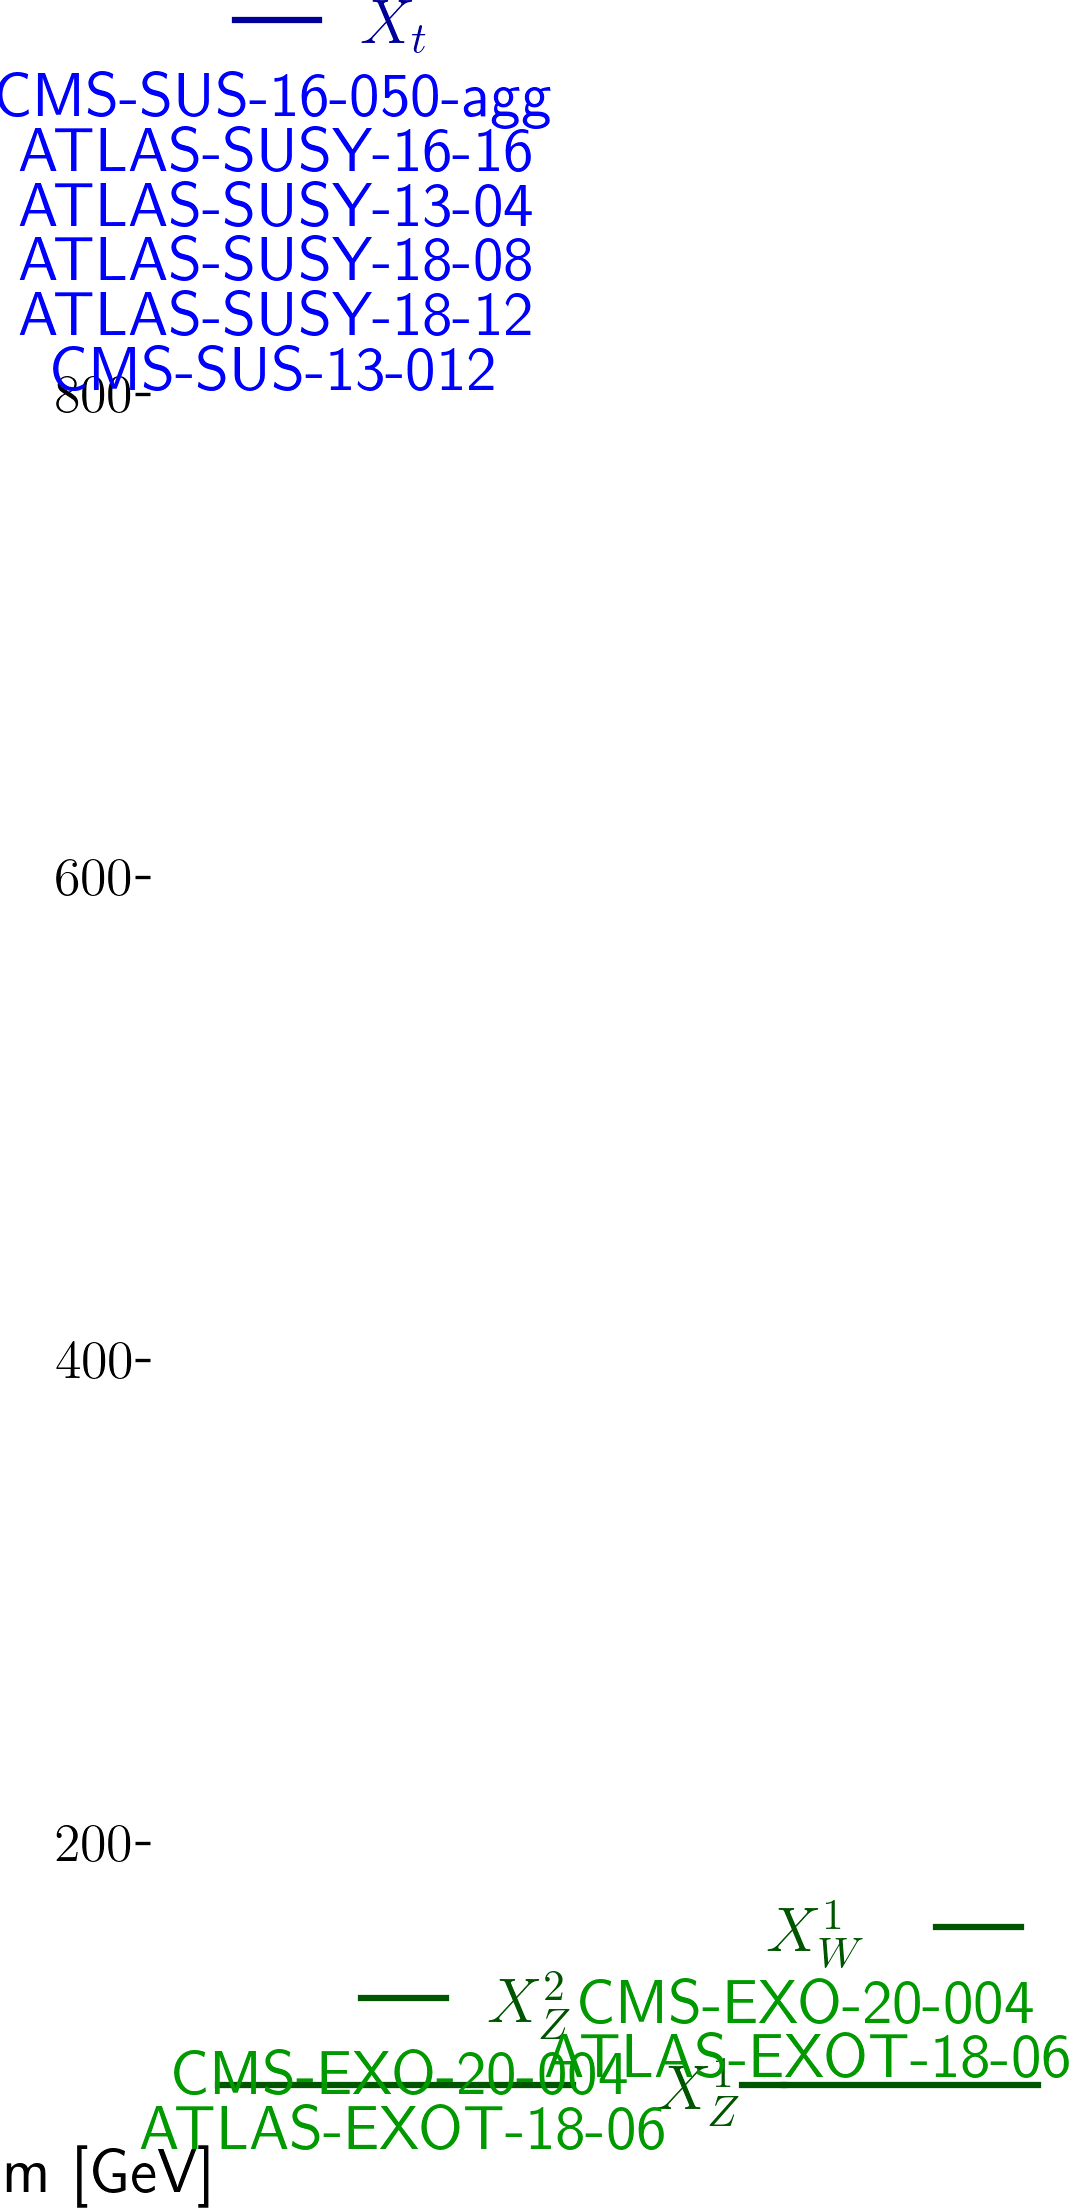
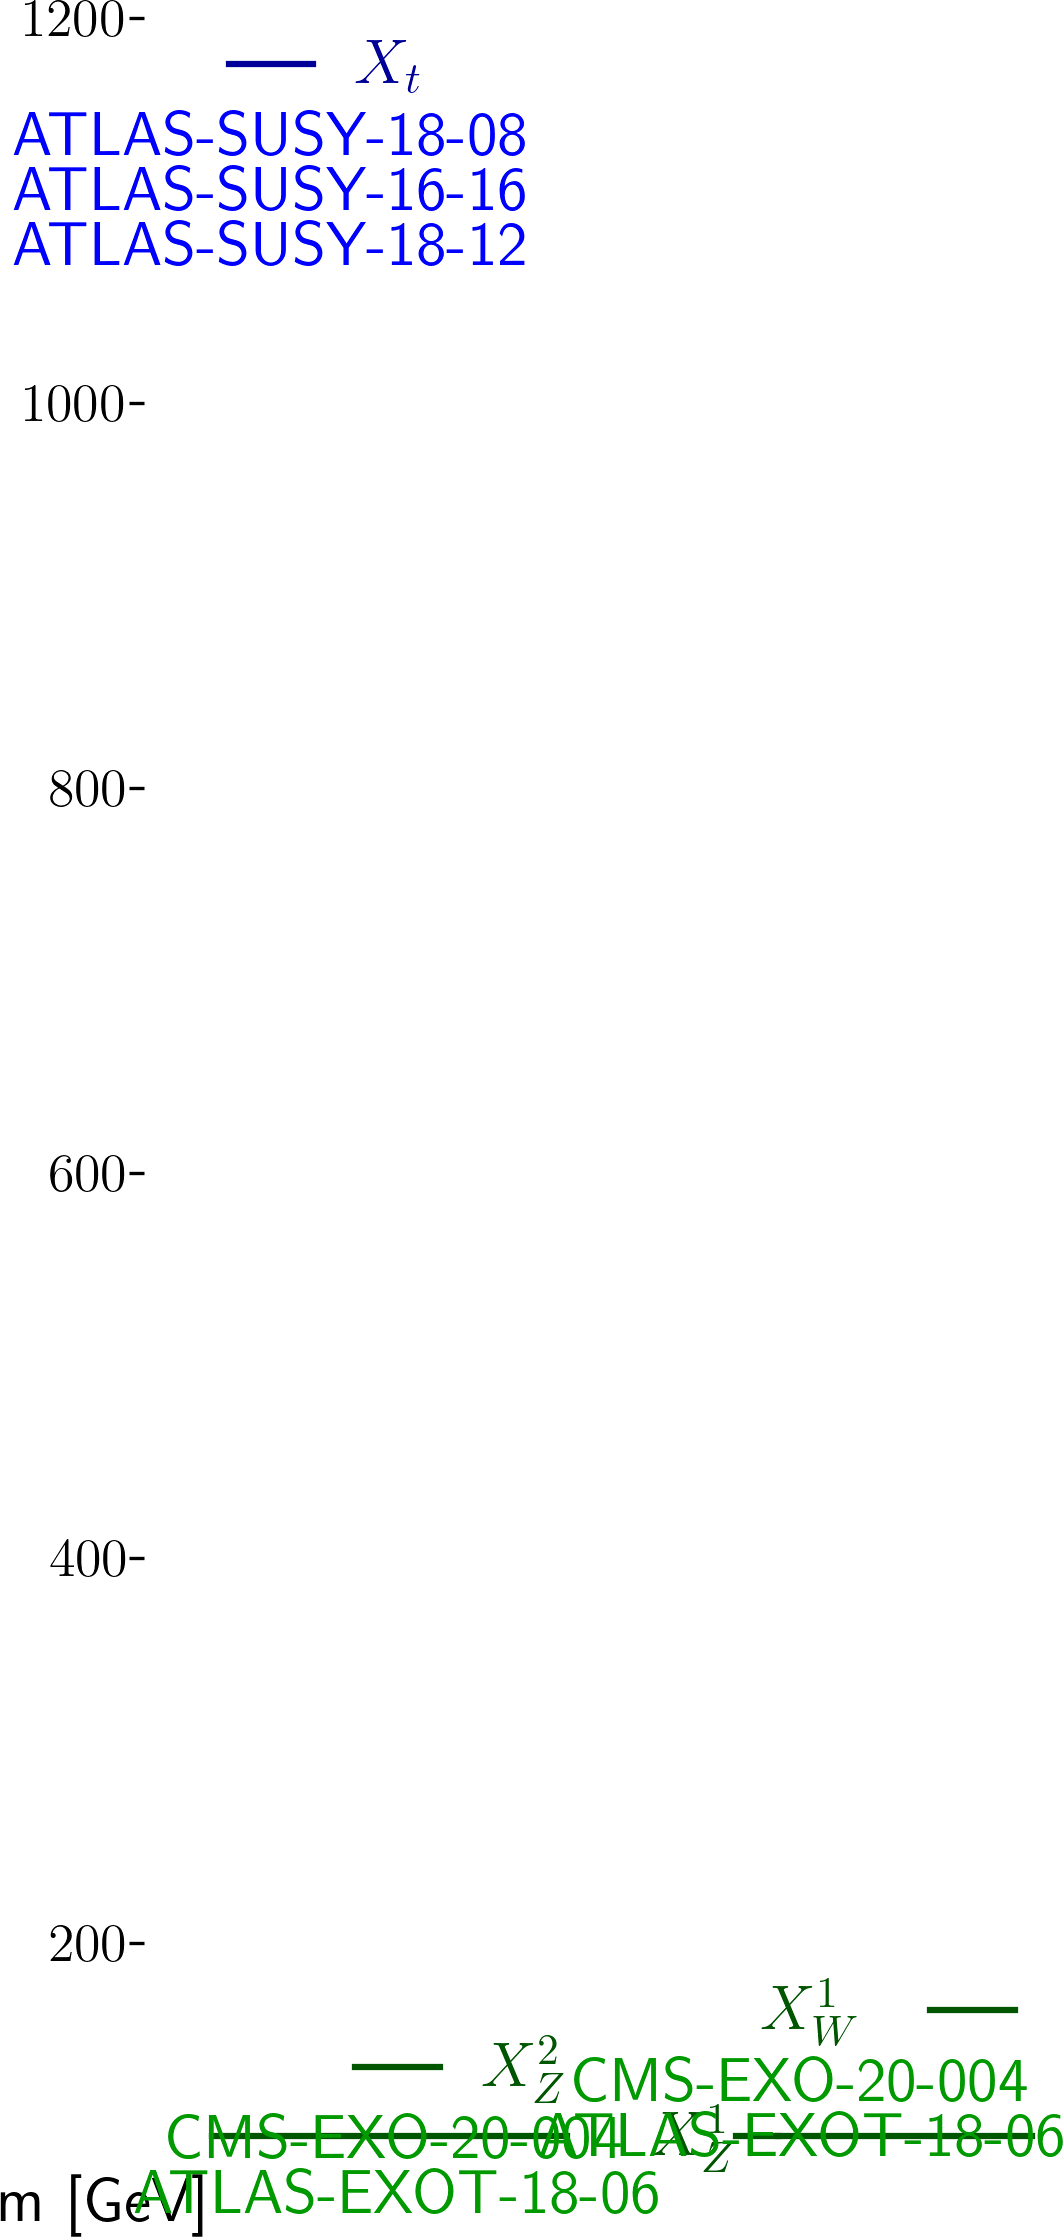
automated update by plotHiscore.py to mcmc3_310:     K=25.024 TL=30.30 walkerid=0

diff --git a/protomodels/mcmc3_310/rawnumbers.html b/protomodels/mcmc3_310/rawnumbers.html
@@ -3,12 +3,9 @@
 </tr>
 <tr><td><a href=http://cms-results.web.cern.ch/cms-results/public-results/publications/EXO-20-004/>CMS-EXO-20-004</a></td><td>comb</td> <td>-</td><td>TChiISR, TChiZISRqq</td><td> 2e+02 fb </td><td> 1e+02 fb</td><td style="text-align:right">4.5 &sigma;</td><td style="text-align:right">X<sup>1</sup><sub>W</sub>, X<sup>1</sup><sub>Z</sub>, X<sup>2</sup><sub>Z</sub></td></tr>
 <tr><td><a href=https://atlas.web.cern.ch/Atlas/GROUPS/PHYSICS/PAPERS/EXOT-2018-06/>ATLAS-EXOT-2018-06</a></td><td>em</td> <td>EM10</td><td>TChiISR, TChiZISRqq</td><td>413</td><td>359.00 +/- 10.00</td><td style="text-align:right">2.5 &sigma;</td><td style="text-align:right">X<sup>1</sup><sub>W</sub>, X<sup>1</sup><sub>Z</sub>, X<sup>2</sup><sub>Z</sub></td></tr>
-<tr><td><a href=https://atlas.web.cern.ch/Atlas/GROUPS/PHYSICS/PAPERS/SUSY-2018-12/>ATLAS-SUSY-2018-12</a></td><td>em</td> <td>SRBTT</td><td>T2tt</td><td>67</td><td>46.00 +/- 7.00</td><td style="text-align:right">2.1 &sigma;</td><td style="text-align:right">X<sup>1</sup><sub>Z</sub>, X<sub>t</sub></td></tr>
 <tr><td><a href=https://atlas.web.cern.ch/Atlas/GROUPS/PHYSICS/PAPERS/SUSY-2016-16/>ATLAS-SUSY-2016-16</a></td><td>em</td> <td>tN_high</td><td>T2tt</td><td>8</td><td>3.80 +/- 1.00</td><td style="text-align:right">1.7 &sigma;</td><td style="text-align:right">X<sup>1</sup><sub>Z</sub>, X<sub>t</sub></td></tr>
 <tr><td><a href=https://atlas.web.cern.ch/Atlas/GROUPS/PHYSICS/PAPERS/SUSY-2018-08/>ATLAS-SUSY-2018-08</a></td><td>em</td> <td>SRSF140</td><td>T2tt</td><td>9</td><td>5.10 +/- 0.90</td><td style="text-align:right">1.5 &sigma;</td><td style="text-align:right">X<sup>1</sup><sub>Z</sub>, X<sub>t</sub></td></tr>
-<tr><td><a href=https://twiki.cern.ch/twiki/bin/view/CMSPublic/PhysicsResultsSUS13012>CMS-SUS-13-012</a></td><td>em</td> <td>3NJet6_1000HT12 ...</td><td>T2tt</td><td>32</td><td>22.80 +/- 5.20</td><td style="text-align:right">1.3 &sigma;</td><td style="text-align:right">X<sup>1</sup><sub>Z</sub>, X<sub>t</sub></td></tr>
-<tr><td><a href=https://atlas.web.cern.ch/Atlas/GROUPS/PHYSICS/PAPERS/SUSY-2013-04/>ATLAS-SUSY-2013-04</a></td><td>em</td> <td>GtGrid_SR_10ij5 ...</td><td>T2tt</td><td>3</td><td>1.37 +/- 0.35</td><td style="text-align:right">1.2 &sigma;</td><td style="text-align:right">X<sup>1</sup><sub>Z</sub>, X<sub>t</sub></td></tr>
-<tr><td><a href=http://cms-results.web.cern.ch/cms-results/public-results/publications/SUS-16-050/index.html>CMS-SUS-16-050-agg</a></td><td>comb</td> <td>-</td><td>T2tt</td><td> 0.4 fb </td><td> 0.7 fb</td><td style="text-align:right">-0.3 &sigma;</td><td style="text-align:right">X<sup>1</sup><sub>Z</sub>, X<sub>t</sub></td></tr>
+<tr><td><a href=https://atlas.web.cern.ch/Atlas/GROUPS/PHYSICS/PAPERS/SUSY-2018-12/>ATLAS-SUSY-2018-12</a></td><td>em</td> <td>SRATW</td><td>T2tt</td><td>8</td><td>5.60 +/- 0.70</td><td style="text-align:right">1.0 &sigma;</td><td style="text-align:right">X<sup>1</sup><sub>Z</sub>, X<sub>t</sub></td></tr>
 </table>
 <table style='color:grey'>
 <tr><th>Not in Best Combo</th><th>Type</th><th>Dataset</th><th>Topos</th><th>Observed</th><th>Expected</th><th>Approx &sigma;</th><th>Particles</th><tr><td><a href=http://cms-results.web.cern.ch/cms-results/public-results/publications/SUS-16-033/index.html>CMS-SUS-16-033</a></td><td>em</td> <td>SR2_Njet3_Nb0_H ...</td><td>T2tt</td><td>71</td><td>55.20 +/- 11.50</td><td style="text-align:right">1.1 &sigma;</td><td style="text-align:right">X<sup>1</sup><sub>Z</sub>, X<sub>t</sub></td></tr>
@@ -19,9 +16,9 @@
 <tr><td><a href=http://cms-results.web.cern.ch/cms-results/public-results/publications/SUS-16-033/index.html>CMS-SUS-16-033</a></td><td>em</td> <td>SR9_NJet5_Nb2_H ...</td><td>T2tt</td><td>6</td><td>4.40 +/- 3.40</td><td style="text-align:right">0.4 &sigma;</td><td style="text-align:right">X<sup>1</sup><sub>Z</sub>, X<sub>t</sub></td></tr>
 <tr><td><a href=http://cms-results.web.cern.ch/cms-results/public-results/publications/SUS-16-033/index.html>CMS-SUS-16-033</a></td><td>em</td> <td>SR4_Njet5_Nb0_H ...</td><td>T2tt</td><td>25</td><td>23.00 +/- 6.50</td><td style="text-align:right">0.3 &sigma;</td><td style="text-align:right">X<sup>1</sup><sub>Z</sub>, X<sub>t</sub></td></tr>
 <tr><td><a href=http://cms-results.web.cern.ch/cms-results/public-results/publications/SUS-16-033/index.html>CMS-SUS-16-033</a></td><td>em</td> <td>SR3_Njet5_Nb0_H ...</td><td>T2tt</td><td>819</td><td>806.00 +/- 57.00</td><td style="text-align:right">0.2 &sigma;</td><td style="text-align:right">X<sup>1</sup><sub>Z</sub>, X<sub>t</sub></td></tr>
-<tr><td><a href=http://cms-results.web.cern.ch/cms-results/public-results/publications/SUS-16-033/index.html>CMS-SUS-16-033</a></td><td>em</td> <td>SR5_Njet9_Nb0_H ...</td><td>T2tt</td><td>1</td><td>0.60 +/- 1.30</td><td style="text-align:right">0.1 &sigma;</td><td style="text-align:right">X<sup>1</sup><sub>Z</sub>, X<sub>t</sub></td></tr>
+<tr><td><a href=http://cms-results.web.cern.ch/cms-results/public-results/publications/SUS-16-033/index.html>CMS-SUS-16-033</a></td><td>em</td> <td>SR5_Njet9_Nb0_H ...</td><td>T2tt</td><td>1</td><td>0.60 +/- 1.30</td><td style="text-align:right">0.0 &sigma;</td><td style="text-align:right">X<sup>1</sup><sub>Z</sub>, X<sub>t</sub></td></tr>
 <tr><td><a href=http://cms-results.web.cern.ch/cms-results/public-results/publications/SUS-16-033/index.html>CMS-SUS-16-033</a></td><td>em</td> <td>SR8_Njet5_Nb3_H ...</td><td>T2tt</td><td>17</td><td>19.50 +/- 8.40</td><td style="text-align:right">-0.2 &sigma;</td><td style="text-align:right">X<sup>1</sup><sub>Z</sub>, X<sub>t</sub></td></tr>
+<tr><td><a href=http://cms-results.web.cern.ch/cms-results/public-results/publications/SUS-19-006/index.html>CMS-SUS-19-006-agg</a></td><td>comb</td> <td>-</td><td>T2tt</td><td> 0.8 fb </td><td> 0.9 fb</td><td style="text-align:right">-0.6 &sigma;</td><td style="text-align:right">X<sup>1</sup><sub>Z</sub>, X<sub>t</sub></td></tr>
 <tr><td><a href=http://cms-results.web.cern.ch/cms-results/public-results/publications/SUS-16-033/index.html>CMS-SUS-16-033</a></td><td>em</td> <td>SR10_Njet9_Nb3_ ...</td><td>T2tt</td><td>0</td><td>0.00 +/- 1.30</td><td style="text-align:right">-0.8 &sigma;</td><td style="text-align:right">X<sup>1</sup><sub>Z</sub>, X<sub>t</sub></td></tr>
-<tr><td><a href=http://cms-results.web.cern.ch/cms-results/public-results/publications/SUS-19-006/index.html>CMS-SUS-19-006-agg</a></td><td>comb</td> <td>-</td><td>T2tt</td><td> 1 fb </td><td> 1 fb</td><td style="text-align:right">-0.9 &sigma;</td><td style="text-align:right">X<sup>1</sup><sub>Z</sub>, X<sub>t</sub></td></tr>
 <tr><td><a href=http://cms-results.web.cern.ch/cms-results/public-results/publications/SUS-16-033/index.html>CMS-SUS-16-033</a></td><td>em</td> <td>SR11_Njet7_Nb1_ ...</td><td>T2tt</td><td>890</td><td>969.00 +/- 80.00</td><td style="text-align:right">-0.9 &sigma;</td><td style="text-align:right">X<sup>1</sup><sub>Z</sub>, X<sub>t</sub></td></tr>
 </table>

diff --git a/protomodels/mcmc3_310/index.html b/protomodels/mcmc3_310/index.html
@@ -1,22 +1,22 @@
 <html>
 <body>
 <center>
-<table><td><h1>Current best protomodel: <i>K</i>=24.44, <i>TL</i>=29.49</h1><td><img height=60px src=https://smodels.github.io//protomodels/logos/protomodel_lego.png></table>
+<table><td><h1>Current best protomodel: <i>K</i>=25.02, <i>TL</i>=30.30</h1><td><img height=60px src=https://smodels.github.io//protomodels/logos/protomodel_lego.png></table>
 </center>
-<b><a href=./hiscore.slha>ProtoModel</a> <a href=./pmodel.dict>(dict)</a> produced with <a href=https://smodels.github.io//docs/Validation310>database v3.1.0</a>, combination strategy <a href=./matrix.png>aggressive</a> in walker 0 step 593.</b> <br>
+<b><a href=./hiscore.slha>ProtoModel</a> <a href=./pmodel.dict>(dict)</a> produced with <a href=https://smodels.github.io//docs/Validation310>database v3.1.0</a>, combination strategy <a href=./matrix.png>aggressive</a> in walker 0 step 25.</b> <br>
 <table width=80%>
 <tr><td>
-<br><b>21 predictions available. Highest r values are:</b><br><ul>
-<li><a href=http://cms-results.web.cern.ch/cms-results/public-results/publications/SUS-20-002/index.html>CMS-SUS-20-002</a>:ul:T2tt r=1.37, r<sub>exp</sub>=1.19<br>
-<li><a href=https://atlas.web.cern.ch/Atlas/GROUPS/PHYSICS/PAPERS/EXOT-2018-06/>ATLAS-EXOT-2018-06</a>:em:TChiZISRqq,TChiISR r=1.37, r<sub>exp</sub>=1.48<br>
-<li><a href=http://cms-results.web.cern.ch/cms-results/public-results/publications/SUS-19-010/index.html>CMS-SUS-19-010</a>:ul:T2tt r=1.08, r<sub>exp</sub>=0.92<br>
-<li><a href=http://cms-results.web.cern.ch/cms-results/public-results/publications/SUS-19-009/index.html>CMS-SUS-19-009</a>:ul:T2tt r=0.69, r<sub>exp</sub>=0.66<br>
+<br><b>16 predictions available. Highest r values are:</b><br><ul>
+<li><a href=http://cms-results.web.cern.ch/cms-results/public-results/publications/SUS-20-002/index.html>CMS-SUS-20-002</a>:ul:T2tt r=1.38, r<sub>exp</sub>=1.41<br>
+<li><a href=https://atlas.web.cern.ch/Atlas/GROUPS/PHYSICS/PAPERS/EXOT-2018-06/>ATLAS-EXOT-2018-06</a>:EM8:TChiISR,TChiZISRqq r=1.37, r<sub>exp</sub>=1.48<br>
+<li><a href=http://cms-results.web.cern.ch/cms-results/public-results/publications/SUS-19-010/index.html>CMS-SUS-19-010</a>:ul:T2tt r=1.23, r<sub>exp</sub>=1.05<br>
+<li><a href=https://atlas.web.cern.ch/Atlas/GROUPS/PHYSICS/PAPERS/SUSY-2018-12/>ATLAS-SUSY-2018-12</a>:ul:T2tt r=0.92, r<sub>exp</sub>=0.91<br>
 </ul>
-<td><img width=600px src=./texdoc.png?1754744530>
-<br><span style='font-size: smaller; color: darkred;'>Last updated: Sat Aug  9 15:02:10 2025</span>
+<td><img width=600px src=./texdoc.png?1754918305>
+<br><span style='font-size: smaller; color: darkred;'>Last updated: Mon Aug 11 15:18:25 2025</span>
 </table><table style="width:80%">
-<td width=45%><img height=580px src=./ruler.png?1754744530><td width=55%><img height=220px src=./decays.png?1754744530>
-<font size=-3><iframe type="text/html" height="350px" width="100%" frameborder="0" src="./rawnumbers.html?1754744530"></iframe></font>
+<td width=45%><img height=580px src=./ruler.png?1754918305><td width=55%><img height=220px src=./decays.png?1754918305>
+<font size=-3><iframe type="text/html" height="350px" width="100%" frameborder="0" src="./rawnumbers.html?1754918305"></iframe></font>
 </table>
 </body>
 </html>
